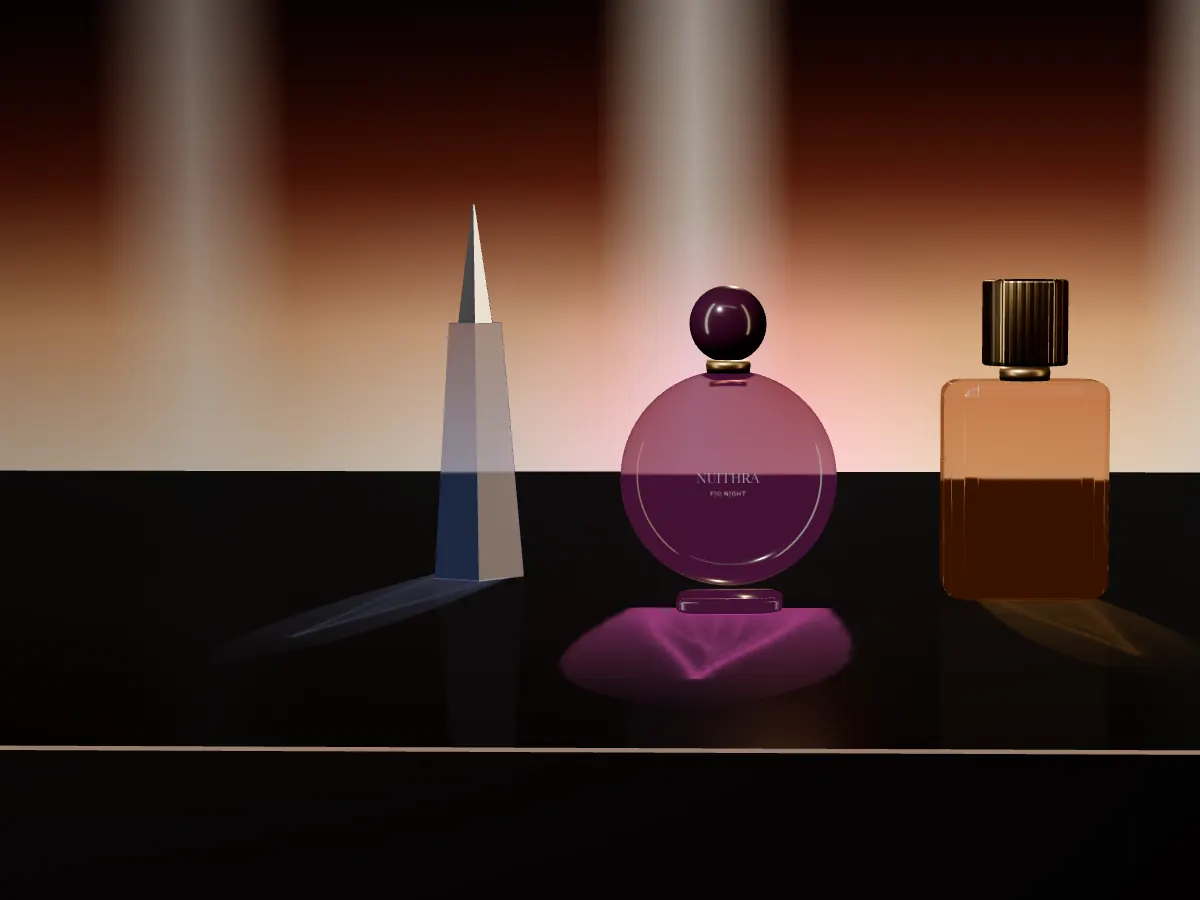
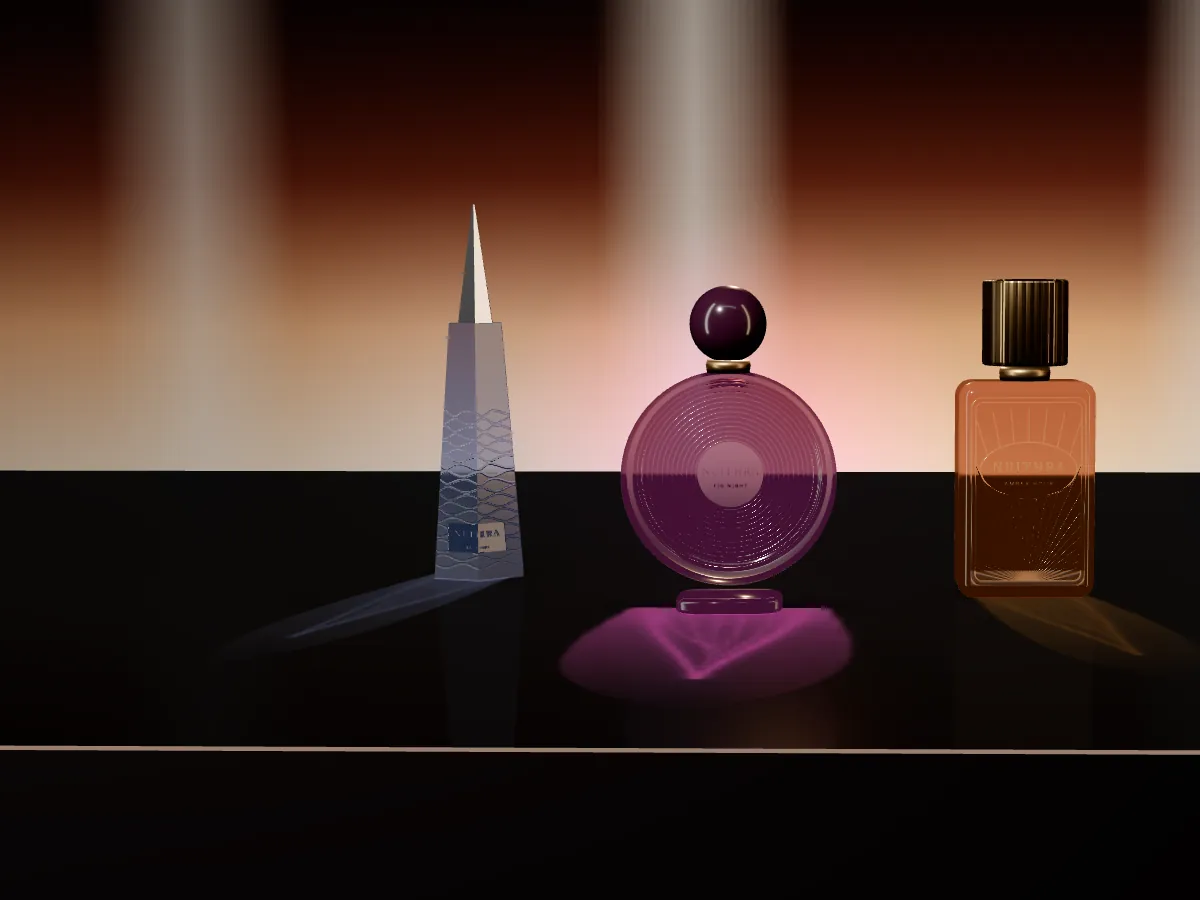
NUITHRA: etched and engraved glass on every bottle
Each bottle now has its own glasswork drawn into color, roughness and normal
maps. Amber Hour has an Art Deco sunburst in an engraved frame. Fig Night has
engraved rings. Smoke Garden is fluted. Salt Iris has frost that fades up from
the base with wave lines. Vetiver Rain has etched grass. Names are etched into
the glass and the floating labels are gone. The Amber Hour body is now a
rounded box with clean corners. All stills are re-rendered.

Claude-Session: https://claude.ai/code/session_018BGEB6D8wuTAowK1UCa7K5

Changed region(s): [[0.7708, 0.4044, 0.925, 0.6844], [0.5242, 0.4044, 0.7092, 0.6533], [0.3392, 0.3422, 0.4317, 0.6533]]

diff --git a/src/nuithra/etch.js b/src/nuithra/etch.js
@@ -1,0 +1,190 @@
+// Glasswork for the NUITHRA bottles, drawn on canvases and turned into textures.
+// Two layers per bottle. Frost marks acid-etched areas: rough, paler glass that blurs what is behind it.
+// Cuts mark engraved lines: grooves that catch the light. Together they give a color map (frost is paler),
+// a roughness map (frost scatters) and a normal map (cuts and frost edges have depth).
+// Drawing happens in meters on the bottle's surface. Planar bottles use the left half of the canvas for the
+// front and the right half for the back. Round bottles wrap the canvas around them with the front at the center.
+import * as THREE from 'three';
+
+const SERIF = '"Libre Caslon Display", "Libre Caslon Text", Georgia, serif';
+const SANS = '"Schibsted Grotesk", system-ui, sans-serif';
+
+// Surface size in meters per shape: mode, width (or circumference) and height.
+export const SURFACE = {
+  slab: { mode: 'planar', w: 0.054, h: 0.086 },
+  moon: { mode: 'planar', w: 0.082, h: 0.0905 },
+  column: { mode: 'wrap', w: 2 * Math.PI * 0.025, h: 0.106 },
+  obelisk: { mode: 'wrap', w: 2 * Math.PI * 0.017, h: 0.108 },
+  octagon: { mode: 'wrap', w: 2 * Math.PI * 0.039, h: 0.066 },
+};
+
+// UVs that match the drawing: planar front and back halves, or a wrap with the front at u = 0.5.
+export function surfaceUV(g, shape) {
+  const S = SURFACE[shape], p = g.attributes.position, n = g.attributes.normal;
+  const uv = new Float32Array(p.count * 2);
+  for (let i = 0; i < p.count; i++) {
+    const x = p.getX(i), y = p.getY(i), z = p.getZ(i);
+    if (S.mode === 'planar') {
+      const back = n.getZ(i) < -0.2;
+      const u = Math.min(1, Math.max(0, x / S.w + 0.5));
+      uv[i * 2] = back ? 0.5 + (1 - u) * 0.5 : u * 0.5;
+    } else {
+      uv[i * 2] = Math.atan2(x, z) / (Math.PI * 2) + 0.5;
+    }
+    uv[i * 2 + 1] = Math.min(1, Math.max(0, y / S.h));
+  }
+  g.setAttribute('uv', new THREE.BufferAttribute(uv, 2));
+  return g;
+}
+
+// Text in meters: draw at 100 px and scale down, since browsers handle tiny font sizes poorly.
+function text(x, str, cx, cy, size, font, spacing = 0) {
+  const k = size / 100;
+  x.save();
+  x.translate(cx, cy);
+  x.scale(k, k);
+  x.font = `100px ${font}`;
+  x.textBaseline = 'middle';
+  const sp = spacing / k;
+  const chars = [...str], widths = chars.map((c) => x.measureText(c).width);
+  let pos = -(widths.reduce((a, b) => a + b, 0) + sp * (chars.length - 1)) / 2;
+  x.textAlign = 'left';
+  chars.forEach((c, i) => { x.fillText(c, pos, 0); pos += widths[i] + sp; });
+  x.restore();
+}
+
+// Each design draws into the frost (F) and cut (C) contexts. Units are meters, y grows downward from the top.
+// front: true for the front half (planar) or the whole wrap. back: the back half of planar bottles.
+const DESIGNS = {
+  // Amber Hour: an Art Deco sunburst rising from the base inside an engraved frame. The name is frosted.
+  slab(F, C, { w, h, name, side }) {
+    C.lineWidth = 0.0005;
+    C.beginPath(); C.roundRect(0.0045, 0.006, w - 0.009, h - 0.012, 0.004); C.stroke();
+    C.beginPath(); C.roundRect(0.0062, 0.0078, w - 0.0124, h - 0.0156, 0.003); C.stroke();
+    C.save(); C.beginPath(); C.roundRect(0.0062, 0.0078, w - 0.0124, h - 0.0156, 0.003); C.clip();
+    C.lineWidth = 0.00045;
+    for (let i = 0; i <= 26; i++) { const a = Math.PI * (0.08 + 0.84 * (i / 26)); C.beginPath(); C.moveTo(w / 2, h - 0.006); C.lineTo(w / 2 - Math.cos(a) * 0.07, h - 0.006 - Math.sin(a) * 0.07); C.stroke(); }
+    C.restore();
+    F.fillRect(0.0045, h - 0.012, w - 0.009, 0.006);
+    if (side === 'back') return;
+    // A clear oval cartouche over the rays, with the name frosted inside it.
+    for (const ctx of [C, F]) { ctx.save(); ctx.globalCompositeOperation = 'destination-out'; ctx.beginPath(); ctx.ellipse(w / 2, h * 0.4, 0.019, 0.011, 0, 0, Math.PI * 2); ctx.fill(); ctx.restore(); }
+    C.lineWidth = 0.0005; C.beginPath(); C.ellipse(w / 2, h * 0.4, 0.019, 0.011, 0, 0, Math.PI * 2); C.stroke();
+    text(F, 'NUITHRA', w / 2, h * 0.39, 0.0052, SERIF, 0.0009);
+    text(F, name.toUpperCase(), w / 2, h * 0.4 + 0.0055, 0.0021, SANS, 0.0006);
+  },
+  // Fig Night: fine engraved rings like ripples. A frosted center disc carries the name in clear glass.
+  moon(F, C, { w, h, name, side }) {
+    const cx = w / 2, cy = h - 0.0505;
+    C.lineWidth = 0.00035;
+    for (let r = 0.015; r < 0.0365; r += 0.0019) { C.beginPath(); C.arc(cx, cy, r, 0, Math.PI * 2); C.stroke(); }
+    F.lineWidth = 0.002; F.beginPath(); F.arc(cx, cy, 0.0385, 0, Math.PI * 2); F.stroke();
+    if (side === 'back') return;
+    F.beginPath(); F.arc(cx, cy, 0.0128, 0, Math.PI * 2); F.fill();
+    F.save(); F.globalCompositeOperation = 'destination-out';
+    text(F, 'NUITHRA', cx, cy - 0.001, 0.0042, SERIF, 0.0006);
+    text(F, name.toUpperCase(), cx, cy + 0.0045, 0.0018, SANS, 0.0005);
+    F.restore();
+    C.lineWidth = 0.0004; C.beginPath(); C.arc(cx, cy, 0.0135, 0, Math.PI * 2); C.stroke();
+  },
+  // Smoke Garden: deep vertical flutes all around. A frosted band at the front holds the name in clear glass.
+  column(F, C, { w, h, name }) {
+    C.lineWidth = 0.0013;
+    for (let x = 0.002; x < w; x += 0.0042) { C.beginPath(); C.moveTo(x, 0.022); C.lineTo(x, h - 0.012); C.stroke(); }
+    F.fillRect(0, h - 0.008, w, 0.008);
+    for (const ctx of [C]) { ctx.save(); ctx.globalCompositeOperation = 'destination-out'; ctx.fillRect(w / 2 - 0.022, h * 0.47, 0.044, 0.018); ctx.restore(); }
+    F.fillRect(w / 2 - 0.022, h * 0.47, 0.044, 0.018);
+    F.save(); F.globalCompositeOperation = 'destination-out';
+    text(F, 'NUITHRA', w / 2, h * 0.47 + 0.0072, 0.0046, SERIF, 0.0008);
+    text(F, name.toUpperCase(), w / 2, h * 0.47 + 0.0135, 0.002, SANS, 0.0006);
+    F.restore();
+  },
+  // Salt Iris: acid-etched frost that fades up from the base, crossed by engraved wave lines.
+  obelisk(F, C, { w, h, name }) {
+    const g = F.createLinearGradient(0, h, 0, h * 0.42);
+    g.addColorStop(0, 'rgba(255,255,255,0.95)'); g.addColorStop(1, 'rgba(255,255,255,0)');
+    F.fillStyle = g; F.fillRect(0, h * 0.42, w, h * 0.58);
+    C.lineWidth = 0.0004;
+    for (let y = h * 0.35; y < h - 0.004; y += 0.0032) {
+      C.beginPath();
+      for (let x = 0; x <= w; x += 0.001) { const yy = y + Math.sin(x * 420 + y * 900) * 0.0011; x ? C.lineTo(x, yy) : C.moveTo(x, yy); }
+      C.stroke();
+    }
+    F.fillStyle = '#fff';
+    F.save(); F.globalCompositeOperation = 'destination-out'; F.fillRect(w / 2 - 0.012, h - 0.024, 0.024, 0.012); F.restore();
+    C.save(); C.globalCompositeOperation = 'destination-out'; C.fillRect(w / 2 - 0.012, h - 0.024, 0.024, 0.012); C.restore();
+    text(F, 'NUITHRA', w / 2, h - 0.0195, 0.0036, SERIF, 0.0006);
+    text(F, name.toUpperCase(), w / 2, h - 0.014, 0.0015, SANS, 0.0004);
+  },
+  // Vetiver Rain: blades of grass engraved around the base. A frosted shoulder band. The name sits in a clear panel.
+  octagon(F, C, { w, h, name }) {
+    let s = 11;
+    const rnd = () => ((s = (s * 16807) % 2147483647) / 2147483647);
+    C.lineWidth = 0.0005;
+    for (let i = 0; i < 150; i++) {
+      const x0 = rnd() * w, top = h - 0.018 - rnd() * 0.03, lean = (rnd() - 0.5) * 0.014;
+      C.beginPath(); C.moveTo(x0, h - 0.004); C.quadraticCurveTo(x0 + lean * 0.3, (h + top) / 2, x0 + lean, top); C.stroke();
+    }
+    F.fillRect(0, 0.003, w, 0.007);
+    F.fillRect(0, h - 0.004, w, 0.004);
+    const px = w / 2 - 0.016, py = h * 0.3, pw = 0.032, ph = 0.016;
+    C.save(); C.globalCompositeOperation = 'destination-out'; C.fillRect(px, py, pw, ph); C.restore();
+    C.lineWidth = 0.0004; C.strokeRect(px, py, pw, ph);
+    text(F, 'NUITHRA', w / 2, py + 0.0065, 0.0046, SERIF, 0.0008);
+    text(F, name.toUpperCase(), w / 2, py + 0.0122, 0.0019, SANS, 0.0006);
+  },
+};
+
+// Build the three textures for one bottle. res is the canvas height in pixels.
+export function etchMaps(shape, name, tint, res = 512) {
+  const S = SURFACE[shape];
+  const W = res * 2, H = res;
+  const mk = () => { const c = document.createElement('canvas'); c.width = W; c.height = H; return c; };
+  const fc = mk(), cc = mk();
+  const F = fc.getContext('2d'), C = cc.getContext('2d');
+  for (const ctx of [F, C]) { ctx.fillStyle = '#fff'; ctx.strokeStyle = '#fff'; }
+  const draw = (x0, xw, side) => {
+    for (const ctx of [F, C]) { ctx.save(); ctx.beginPath(); ctx.rect(x0, 0, xw, H); ctx.clip(); ctx.setTransform(xw / S.w, 0, 0, H / S.h, x0, 0); ctx.fillStyle = '#fff'; ctx.strokeStyle = '#fff'; }
+    DESIGNS[shape](F, C, { w: S.w, h: S.h, name, side });
+    for (const ctx of [F, C]) ctx.restore();
+  };
+  if (S.mode === 'planar') { draw(0, W / 2, 'front'); draw(W / 2, W / 2, 'back'); }
+  else draw(0, W, 'front');
+
+  const f = F.getImageData(0, 0, W, H).data, c = C.getImageData(0, 0, W, H).data;
+  // Height: grooves go down, frost sits a little lower than clear glass. Blur the cuts a touch for round edges.
+  const height = new Float32Array(W * H);
+  for (let i = 0; i < W * H; i++) height[i] = -(c[i * 4 + 3] / 255) * 1.0 - (f[i * 4 + 3] / 255) * 0.18;
+  const blur = new Float32Array(W * H);
+  for (let y = 0; y < H; y++) for (let x = 0; x < W; x++) {
+    let sum = 0, n = 0;
+    for (let dy = -1; dy <= 1; dy++) for (let dx = -1; dx <= 1; dx++) { const xx = x + dx, yy = y + dy; if (xx >= 0 && yy >= 0 && xx < W && yy < H) { sum += height[yy * W + xx]; n++; } }
+    blur[y * W + x] = sum / n;
+  }
+  const tintC = new THREE.Color(tint);
+  const col = new ImageData(W, H), rough = new ImageData(W, H), nrm = new ImageData(W, H);
+  const k = 2.2 * (res / 512);
+  for (let y = 0; y < H; y++) for (let x = 0; x < W; x++) {
+    const i = y * W + x, fr = f[i * 4 + 3] / 255, cu = c[i * 4 + 3] / 255;
+    const frost = Math.max(fr, cu * 0.6);
+    col.data[i * 4] = 255 * (tintC.r + (1 - tintC.r) * frost * 0.7);
+    col.data[i * 4 + 1] = 255 * (tintC.g + (1 - tintC.g) * frost * 0.7);
+    col.data[i * 4 + 2] = 255 * (tintC.b + (1 - tintC.b) * frost * 0.7);
+    col.data[i * 4 + 3] = 255;
+    const r = 255 * Math.min(1, 0.03 + fr * 0.5 + cu * 0.28);
+    rough.data[i * 4] = rough.data[i * 4 + 1] = rough.data[i * 4 + 2] = r; rough.data[i * 4 + 3] = 255;
+    const hl = blur[y * W + Math.max(0, x - 1)], hr = blur[y * W + Math.min(W - 1, x + 1)];
+    const hu = blur[Math.max(0, y - 1) * W + x], hd = blur[Math.min(H - 1, y + 1) * W + x];
+    let nx = (hl - hr) * k, ny = (hd - hu) * k, nz = 1;
+    const len = Math.hypot(nx, ny, nz); nx /= len; ny /= len; nz /= len;
+    nrm.data[i * 4] = (nx * 0.5 + 0.5) * 255; nrm.data[i * 4 + 1] = (ny * 0.5 + 0.5) * 255; nrm.data[i * 4 + 2] = (nz * 0.5 + 0.5) * 255; nrm.data[i * 4 + 3] = 255;
+  }
+  const tex = (img, srgb) => {
+    const cv = mk(); cv.getContext('2d').putImageData(img, 0, 0);
+    const t = new THREE.CanvasTexture(cv);
+    if (srgb) t.colorSpace = THREE.SRGBColorSpace;
+    t.anisotropy = 8;
+    return t;
+  };
+  return { map: tex(col, true), roughnessMap: tex(rough, false), normalMap: tex(nrm, false) };
+}

diff --git a/src/nuithra/scene.js b/src/nuithra/scene.js
@@ -6,11 +6,11 @@ import * as THREE from 'three';
 import { createStage } from '../kit/stage.js';
 import { ORDER, SCENTS, sizeScale } from './scents.js';
 import { buildBottle } from './bottles.js';
+import { etchMaps } from './etch.js';
 
 const clamp = (v, a = 0, b = 1) => Math.min(b, Math.max(a, v));
 const WHITE = new THREE.Color(1, 1, 1);
 const THICK = { slab: 0.032, moon: 0.027, column: 0.05, obelisk: 0.036, octagon: 0.07 };
-const LABEL = { slab: [0.045, 0.0162], moon: [0.05, 0.0137], column: [0.05, 0.0254], octagon: [0.032, 0.0402] };
 
 // Studio for reflections: tall soft boxes left and right draw long highlights down the glass edges.
 function studio() {
@@ -135,15 +135,20 @@ export async function createNuithraScene(canvas, { tier, reducedMotion, onReady,
   const mirrorShared = Object.fromEntries(Object.entries(shared).map(([k, m]) => [k, mirror(m)]));
   const pool = poolTex(), shadow = blobTex('rgba(0,0,0,0.85)', 'rgba(0,0,0,0)'), glowT = blobTex('rgba(255,255,255,0.9)', 'rgba(255,255,255,0)');
 
-  function glassMat(hex, shape) {
-    const c = new THREE.Color(hex);
+  // Glass with its etching: frost is paler and rough, engraved lines have depth. The tint lives in the color map.
+  const RES = { high: 768, mid: 512, low: 384 }[tier] || 512;
+  function glassMat(s) {
+    const c = new THREE.Color(s.glass);
+    const tint = rich ? WHITE.clone().lerp(c, 0.55) : c;
+    const maps = etchMaps(s.shape, s.name, `#${tint.getHexString()}`, RES);
     if (rich) {
-      return new THREE.MeshPhysicalMaterial({ color: WHITE.clone().lerp(c, 0.55), transmission: 1, thickness: THICK[shape], ior: 1.5, roughness: 0.01,
-        attenuationColor: c, attenuationDistance: THICK[shape] * 2.2, specularIntensity: 1, envMapIntensity: 1.5, dispersion: tier === 'high' ? 0.25 : 0,
+      return new THREE.MeshPhysicalMaterial({ color: WHITE, ...maps, normalScale: new THREE.Vector2(0.7, 0.7), transmission: 1, thickness: THICK[s.shape], ior: 1.5, roughness: 1,
+        attenuationColor: c, attenuationDistance: THICK[s.shape] * 2.2, specularIntensity: 1, envMapIntensity: 1.5, dispersion: tier === 'high' ? 0.25 : 0,
         emissive: c, emissiveIntensity: 0 });
     }
-    return new THREE.MeshPhysicalMaterial({ color: c, transparent: true, opacity: 0.8, roughness: 0.03, clearcoat: 1, clearcoatRoughness: 0.02, envMapIntensity: 2, emissive: c, emissiveIntensity: 0.3 });
+    return new THREE.MeshPhysicalMaterial({ color: WHITE, ...maps, normalScale: new THREE.Vector2(0.7, 0.7), transparent: true, opacity: 0.82, roughness: 1, clearcoat: 1, clearcoatRoughness: 0.02, envMapIntensity: 2, emissive: c, emissiveIntensity: 0.3 });
   }
+  if (document.fonts) await Promise.all(['400 40px "Libre Caslon Display"', '500 40px "Schibsted Grotesk"'].map((f) => document.fonts.load(f))).catch(() => {});
 
   const pause = () => new Promise((r) => setTimeout(r, 0));
   const bottles = [];
@@ -152,18 +157,11 @@ export async function createNuithraScene(canvas, { tier, reducedMotion, onReady,
     bottles.push((() => {
     const s = SCENTS[handle];
     const color = new THREE.Color(s.glass);
-    const mats = { ...shared, glass: glassMat(s.glass, s.shape) };
+    const mats = { ...shared, glass: glassMat(s) };
     const { group, glass, info } = buildBottle(s.shape, s.cap, mats);
     const holder = new THREE.Group();
     holder.add(group);
     glass.userData.handle = handle;
-    if (LABEL[s.shape]) {
-      const [y, z] = LABEL[s.shape];
-      const lab = new THREE.Mesh(new THREE.PlaneGeometry(0.03, 0.015), new THREE.MeshBasicMaterial({ map: labelTex(s.name), transparent: true, depthWrite: false, opacity: 0.85 }));
-      lab.position.set(0, y, z);
-      lab.renderOrder = 5;
-      group.add(lab);
-    }
     const refl = buildBottle(s.shape, s.cap, { ...mirrorShared, glass: new THREE.MeshBasicMaterial({ color: color.clone().multiplyScalar(0.8), transparent: true, opacity: 0.42, depthWrite: false }) }).group;
     refl.scale.y = -1;
     holder.add(refl);

diff --git a/src/nuithra/bottles.js b/src/nuithra/bottles.js
@@ -2,6 +2,8 @@
 // mesh plus its cap parts. The materials are passed in, so the same builder makes the bottle and its reflection.
 import * as THREE from 'three';
 import { toCreasedNormals } from 'three/addons/utils/BufferGeometryUtils.js';
+import { surfaceUV } from './etch.js';
+import { RoundedBoxGeometry } from 'three/addons/geometries/RoundedBoxGeometry.js';
 
 const crease = (g, a = 0.75) => toCreasedNormals(g, a);
 
@@ -14,7 +16,7 @@ function riser(shape, h, bevel, curve = 24, segs = 10) {
 }
 function roundedRect(w, d, r) {
   const s = new THREE.Shape(), x = w / 2 - r, z = d / 2 - r;
-  s.moveTo(-x, -d / 2); s.lineTo(x, -d / 2); s.absarc(x, -z, r, -Math.PI / 2, 0); s.lineTo(w / 2, z);
+  s.moveTo(0, -d / 2); s.lineTo(x, -d / 2); s.absarc(x, -z, r, -Math.PI / 2, 0); s.lineTo(w / 2, z);
   s.absarc(x, z, r, 0, Math.PI / 2); s.lineTo(-x, d / 2); s.absarc(-x, z, r, Math.PI / 2, Math.PI); s.lineTo(-w / 2, -z);
   s.absarc(-x, -z, r, Math.PI, Math.PI * 1.5);
   return s;
@@ -30,7 +32,10 @@ const lathe = (pts, seg = 64) => new THREE.LatheGeometry(pts.map(([x, y]) => new
 // Each shape: glass geometry, the height of its neck top, and its footprint (for the light pool and the shadow).
 const GLASS = {
   slab() {
-    return { geo: riser(roundedRect(0.054, 0.032, 0.009), 0.086, 0.006), top: 0.086, w: 0.054, d: 0.032 };
+    // A rounded box with smooth, even edges. The extruded outline left bad triangles at the top corners.
+    const g = new RoundedBoxGeometry(0.054, 0.086, 0.032, 8, 0.0065);
+    g.translate(0, 0.043, 0);
+    return { geo: g, top: 0.086, w: 0.054, d: 0.032 };
   },
   moon() {
     // A thick upright disc with a fully rounded rim, lathed so the curve has no seams. It stands on a short foot.
@@ -115,7 +120,7 @@ const CAPS = {
 
 const geoCache = new Map(), capCache = new Map();
 export function glassShape(shape) {
-  if (!geoCache.has(shape)) geoCache.set(shape, GLASS[shape]());
+  if (!geoCache.has(shape)) { const g = GLASS[shape](); surfaceUV(g.geo, shape); geoCache.set(shape, g); }
   return geoCache.get(shape);
 }
 
